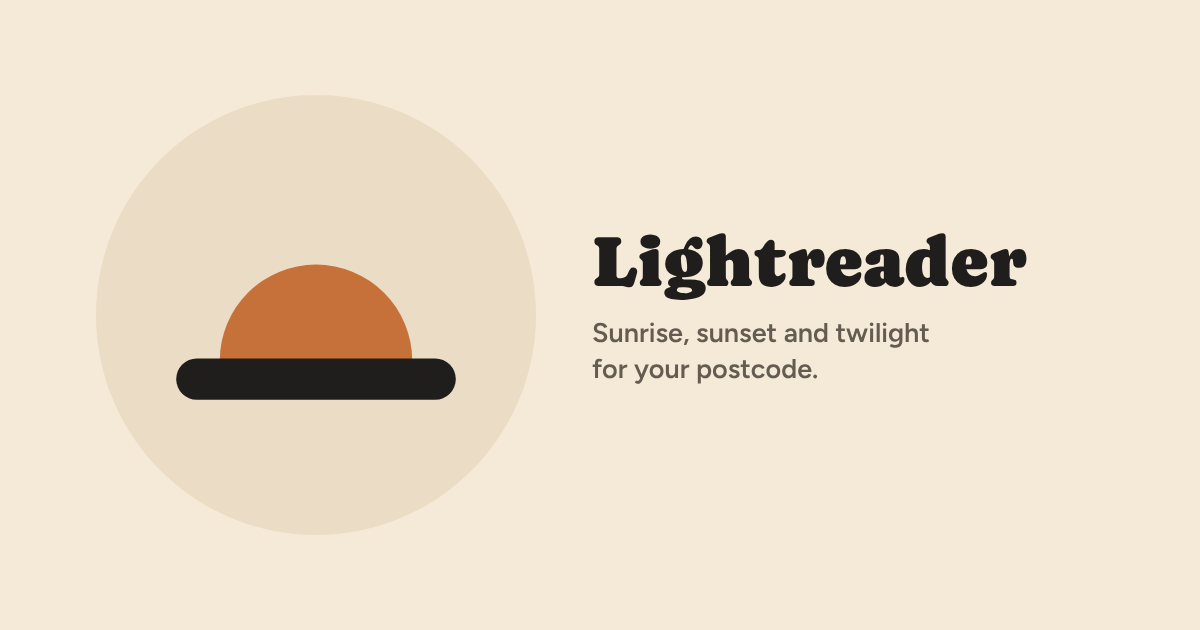
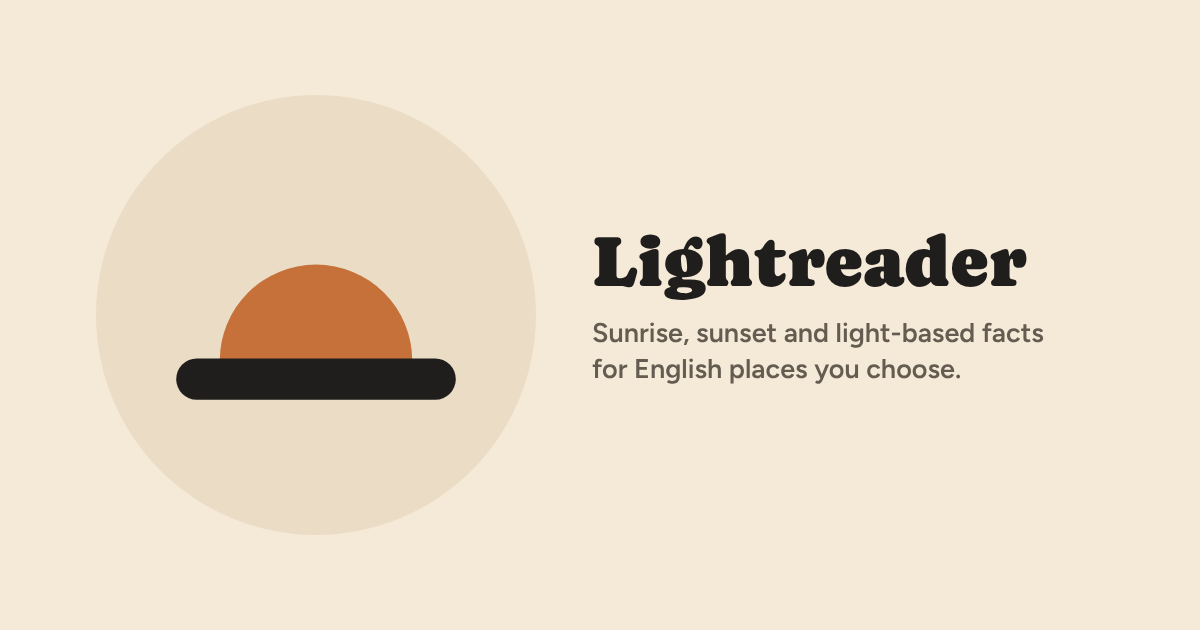
Link-preview picture and its tags
Claude-Session: https://claude.ai/code/session_01BsvHLKDMCYVanWPFUm8Pot

Changed region(s): [[0.5242, 0.573, 0.8017, 0.6032], [0.6783, 0.5127, 0.8633, 0.5429]]

diff --git a/index.html b/index.html
@@ -9,6 +9,17 @@
     <!-- Search (SEO): the <title> and search description are for search results (John,
          28 October); the canonical link names the one main address. -->
     <link rel="icon" type="image/svg+xml" href="/favicon.svg" />
+    <!-- Link previews: the og:/twitter: tags keep the shorter wording drawn into the picture
+         (design/og-lightreader.html; John, 28 October). -->
+    <meta property="og:type" content="website" />
+    <meta property="og:title" content="Lightreader" />
+    <meta property="og:description" content="Sunrise, sunset and light-based facts for English places you choose." />
+    <meta property="og:image" content="https://lightreader.baish.net/og-lightreader.png" />
+    <meta property="og:url" content="https://lightreader.baish.net/" />
+    <meta name="twitter:card" content="summary_large_image" />
+    <meta name="twitter:title" content="Lightreader" />
+    <meta name="twitter:description" content="Sunrise, sunset and light-based facts for English places you choose." />
+    <meta name="twitter:image" content="https://lightreader.baish.net/og-lightreader.png" />
     <!-- Dark mode: set before the page draws, so a visitor who chose it never sees a flash of
          the light page. The same key as src/lib/theme.ts. -->
     <script>

diff --git a/design/og-lightreader.html b/design/og-lightreader.html
@@ -53,7 +53,7 @@
   </div>
   <div class="text">
     <h1>Lightreader</h1>
-    <p>Sunrise, sunset and twilight<br>for your postcode.</p>
+    <p>Sunrise, sunset and light-based facts<br>for English places you choose.</p>
   </div>
 </body>
 </html>

diff --git a/CLAUDE.md b/CLAUDE.md
@@ -737,3 +737,14 @@ John: the picture is right; try "Sunrise, sunset and light-based facts for place
 choose.", or "English places". Both rendered (`design/previews/og-lightreader-a.png` and
 `-b.png`, together in `og-lightreader-options.png`), broken after "facts"; both fit on two
 lines, fonts loaded. Waiting for his choice.
+
+### 2026-10-28 — link-preview picture in (branch `claude/nice-goodall-j1r6wu`)
+
+**John:** "English places". `design/og-lightreader.html` now has "Sunrise, sunset and
+light-based facts / for English places you choose."; rendered again from it (byte for byte
+the same as the option shown) to `public/og-lightreader.png`. `index.html` has the `og:` and
+`twitter:` tags (title "Lightreader", that line as the description, the picture and the
+address on `https://lightreader.baish.net/`, so previews work once the domain is set up).
+Sizes as Hindcaster's: title Caprasimo 72px, tagline Figtree 600 at 27px (Hindcaster's file
+says these came unchanged from clockwheel's Clockmaker template; clockwheel's own file
+wasn't checked from here). **Verified:** build (the picture and six `og:` tags in `dist`).

diff --git a/PLAN.md b/PLAN.md
@@ -216,7 +216,9 @@ Branch: `stage-7-launch`
   the colours). Mock-ups in both themes first.
   **Built (28 October), for John to look at on the preview.**
 - Favicon options, then a link-preview image (house style §7). **John chose A (28
-  October), now `public/favicon.svg`.**
+  October), now `public/favicon.svg`.** Link-preview picture approved with "Sunrise, sunset
+  and light-based facts for English places you choose.": `public/og-lightreader.png`, with
+  the `og:` and `twitter:` tags.
 - Search description agreed (John, 28 October, 139 characters): "Free sunrise, sunset and
   twilight times for any postcode in England: today, through the year, and compared with
   dates or places you choose." Title draft: "Lightreader – sunrise, sunset and twilight
